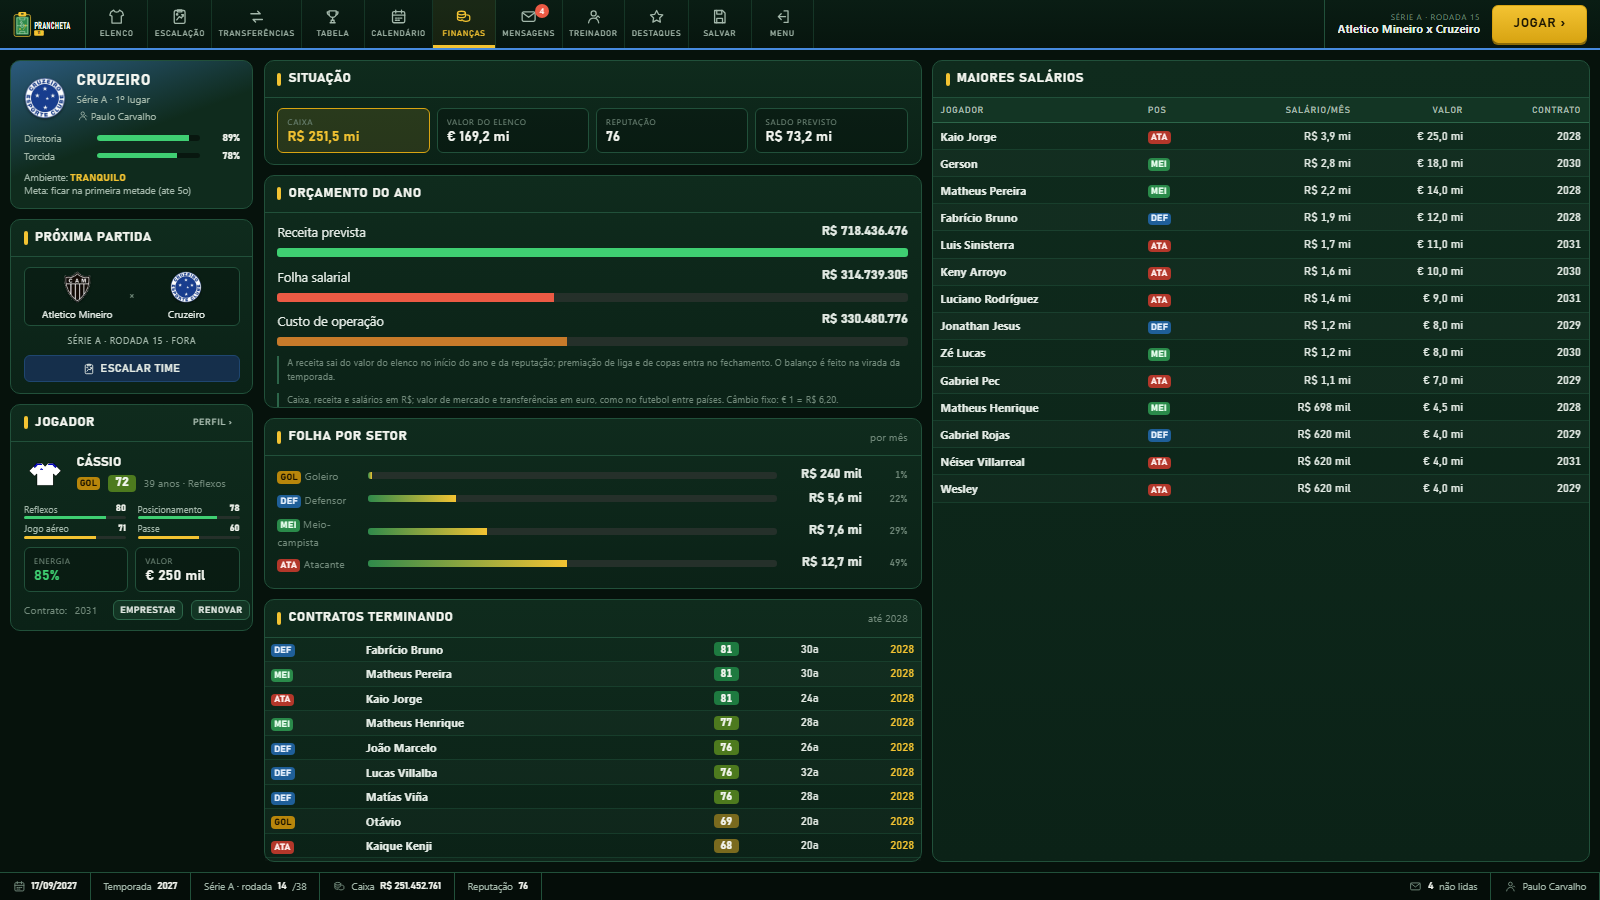
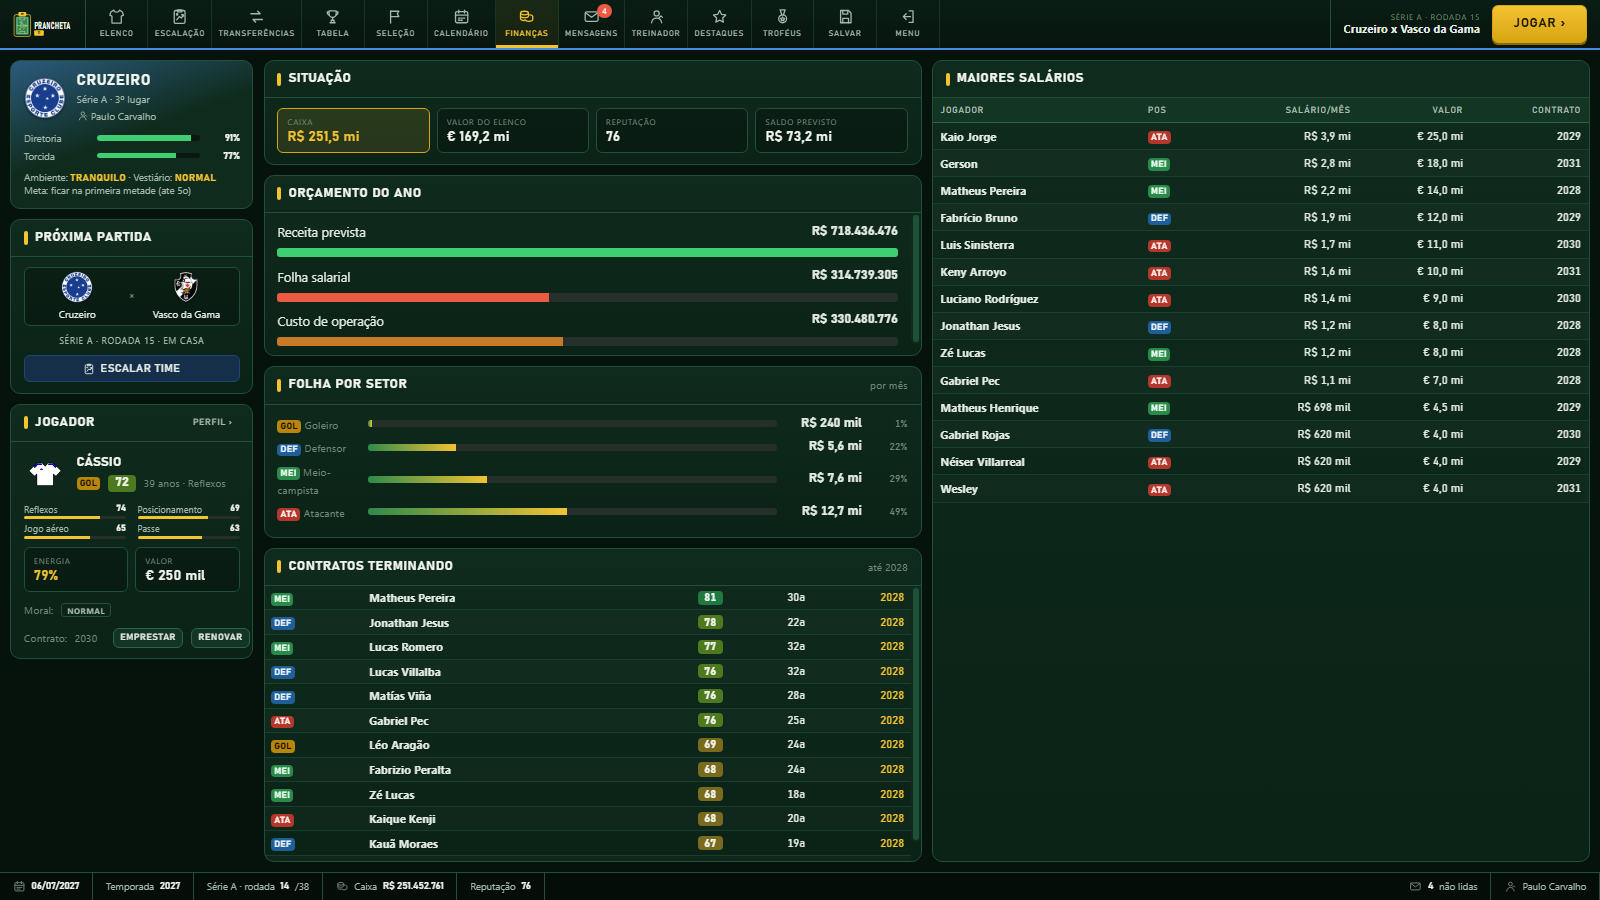
Bring the README and its screenshots up to the current game
The README had stopped at the national teams. It now mentions set-piece
takers and the captain, the scout, morale and dressing-room chemistry,
resigning and the trophy room, and lists the modules behind them. The
market caption said 13 thousand players (it is almost 21 thousand) and
three calibration targets did not match the gate in the code.

The nine screenshots were three weeks old, without the Seleção and Troféus
tabs or the morale column; they were retaken from the same scenario.

diff --git a/README.md b/README.md
@@ -42,14 +42,14 @@ crível**.
 
 | | |
 |---|---|
-| 🏟 **Partida ao vivo** | O relógio para a cada 5 minutos. Dá para fazer substituições, mudar a tática e escolher quem bate o pênalti. Os outros jogos da rodada aparecem em paralelo. |
+| 🏟 **Partida ao vivo** | O relógio para a cada 5 minutos. Dá para fazer substituições, mudar a tática e escolher quem bate o pênalti. Você define o capitão e os cobradores de falta e escanteio, e o especialista faz diferença. Os outros jogos da rodada aparecem em paralelo. |
 | 🏆 **Competições reais** | Série A e B, Copa do Brasil, Libertadores e Sul-Americana no formato da Conmebol: grupos sorteados por potes e chave fixa das oitavas à final. Tem ainda a Champions, a Liga Europa e a Conference League com fase de liga, as copas nacionais (FA Cup, Copa del Rey, Coppa Italia, DFB-Pokal, Coupe de France, Taça de Portugal, Copa Argentina) e as supercopas (do Brasil, Recopa e da UEFA). Os mata-matas são em ida e volta, em datas separadas, e o empate no agregado vai para os pênaltis, cobrança a cobrança. |
 | 🌎 **Seleções e Copa do Mundo** | Cada jogador tem a nacionalidade real, e as seleções são feitas de quem joga no mundo inteiro. Nas datas FIFA as ligas param: eliminatórias sul-americanas e europeias, e a Copa do Mundo de 48 seleções a cada quatro anos, a partir de 2030. Pela reputação, uma seleção pode te convidar: você convoca, escala e comanda os jogos dela ao vivo, sem largar o clube. |
 | 📅 **Calendário real** | A temporada vai de fevereiro a dezembro. As ligas jogam aos domingos e as copas no meio de semana, cada fase na janela de verdade: a pré-Libertadores em fevereiro, os grupos em abril e maio, a final em novembro. |
-| 💸 **Mercado** | Propostas, contrapropostas, contrato, renovação e empréstimo. A IA também negocia entre si, e os clubes grandes às vezes perdem jogador para um menor. |
+| 💸 **Mercado** | Propostas, contrapropostas, contrato, renovação e empréstimo. A IA também negocia entre si, e os clubes grandes às vezes perdem jogador para um menor. O olheiro indica reforços e promessas, e jogador insatisfeito sai mais barato. |
 | 📊 **Finanças reais** | Receita, folha e prêmios na escala dos balanços de verdade. O valor de mercado aparece em **euro**. O caixa e os salários aparecem na **moeda do clube**: R$, £, US$ ou €. |
-| 🩹 **Elenco vivo** | O desgaste vem dos minutos jogados. Tem lesão contada em dias, cartões e suspensões, evolução por idade e potencial, e revelação da base. |
-| 🧑💼 **Carreira de técnico** | Diretoria e torcida avaliam você e podem demitir. Há reputação, ranking mundial de técnicos e convites de outros clubes. No fim da temporada saem a Bola de Ouro e os prêmios de cada liga. |
+| 🩹 **Elenco vivo** | O desgaste vem dos minutos jogados. Tem lesão contada em dias, cartões e suspensões, evolução por idade e potencial, e revelação da base. Cada jogador tem moral, que sobe e desce com os resultados e com o tempo no banco, e o vestiário tem química. |
+| 🧑💼 **Carreira de técnico** | Diretoria e torcida avaliam você e podem demitir. Há reputação, ranking mundial de técnicos e convites de outros clubes, e dá para pedir demissão. No fim da temporada saem a Bola de Ouro e os prêmios de cada liga. A sala de troféus guarda os títulos, os recordes e as lendas de cada clube que você dirigiu. |
 | 👥 **Com amigos** | Até 8 técnicos na mesma carreira, cada um no seu aparelho e com o seu clube. Cada um vê só o próprio time; quando todos apertam **Pronto**, a rodada é jogada para todo mundo. |
 | 🎲 **Determinístico** | O save guarda a semente e as suas decisões. A mesma semente gera exatamente o mesmo mundo, em qualquer máquina. |
 
@@ -61,7 +61,7 @@ crível**.
 <td width="50%"><img src="docs/prints/classificacao.png" alt="Classificação"><br><sub><b>Tabela</b>: classificação, artilharia, defesas e copas</sub></td>
 </tr>
 <tr>
-<td><img src="docs/prints/transferencias.png" alt="Mercado de transferências"><br><sub><b>Mercado</b>: 13 mil jogadores com filtros, valor em € e salário na moeda do clube</sub></td>
+<td><img src="docs/prints/transferencias.png" alt="Mercado de transferências"><br><sub><b>Mercado</b>: quase 21 mil jogadores com filtros, valor em € e salário na moeda do clube</sub></td>
 <td><img src="docs/prints/elenco.png" alt="Elenco"><br><sub><b>Elenco</b>: energia, cartões, perfil e contrato de cada jogador</sub></td>
 </tr>
 <tr>
@@ -149,9 +149,9 @@ A medição abaixo usa 760 mil partidas numa liga de referência de 20 clubes, e
 
 | métrica | medido | alvo |
 |---|---|---|
-| gols por jogo | 2,60 | 2,55 – 2,80 |
+| gols por jogo | 2,60 | 2,50 – 2,80 |
 | 0 × 0 | 7,5% | 6,5 – 9,5% |
-| casa / empate / fora | 46,1 / 24,7 / 29,2 | 43–47 / 23–27 / 28–31 |
+| casa / empate / fora | 46,1 / 24,7 / 29,2 | 43–47,5 / 23,5–26,5 / 27,5–31 |
 | margem de 3+ gols | 14,3% | 11,5 – 15,5% |
 | margem de 4+ gols | 4,8% | 3,5 – 6,0% |
 | pontos do campeão | 76,1 | 74 – 81 |
@@ -203,6 +203,9 @@ fm/
 ├── mercado.py, negocios.py  a janela da IA e as negociações do usuário
 ├── financas.py, moeda.py    receita, folha, prêmios; euro no motor, moeda local na tela
 ├── temporada.py             envelhecimento, evolução, aposentadoria, base
+├── fifa.py, selecoes.py     seleções, datas FIFA, eliminatórias e Copa do Mundo
+├── moral.py, lesoes.py      moral e química do elenco, lesões, e disciplina.py para os cartões
+├── tecnicos.py, diretoria.py  reputação e mercado de técnicos, meta, torcida e demissão
 ├── calibration.py           o portão de qualidade
 ├── servidor.py              servidor HTTP da biblioteca padrão, sem framework
 ├── web/                     a interface: HTML, CSS e JavaScript puros
